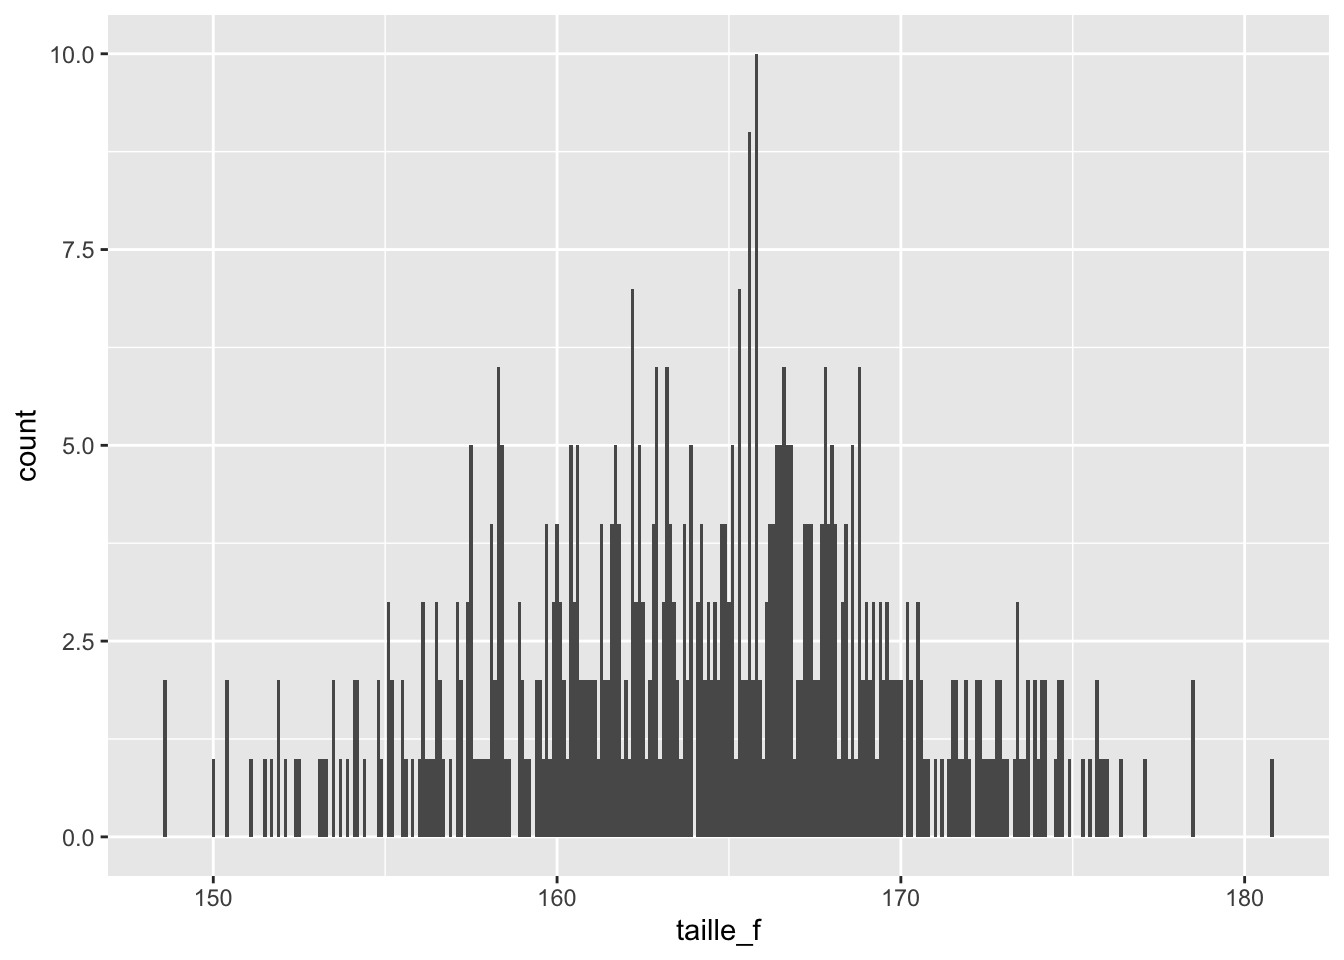
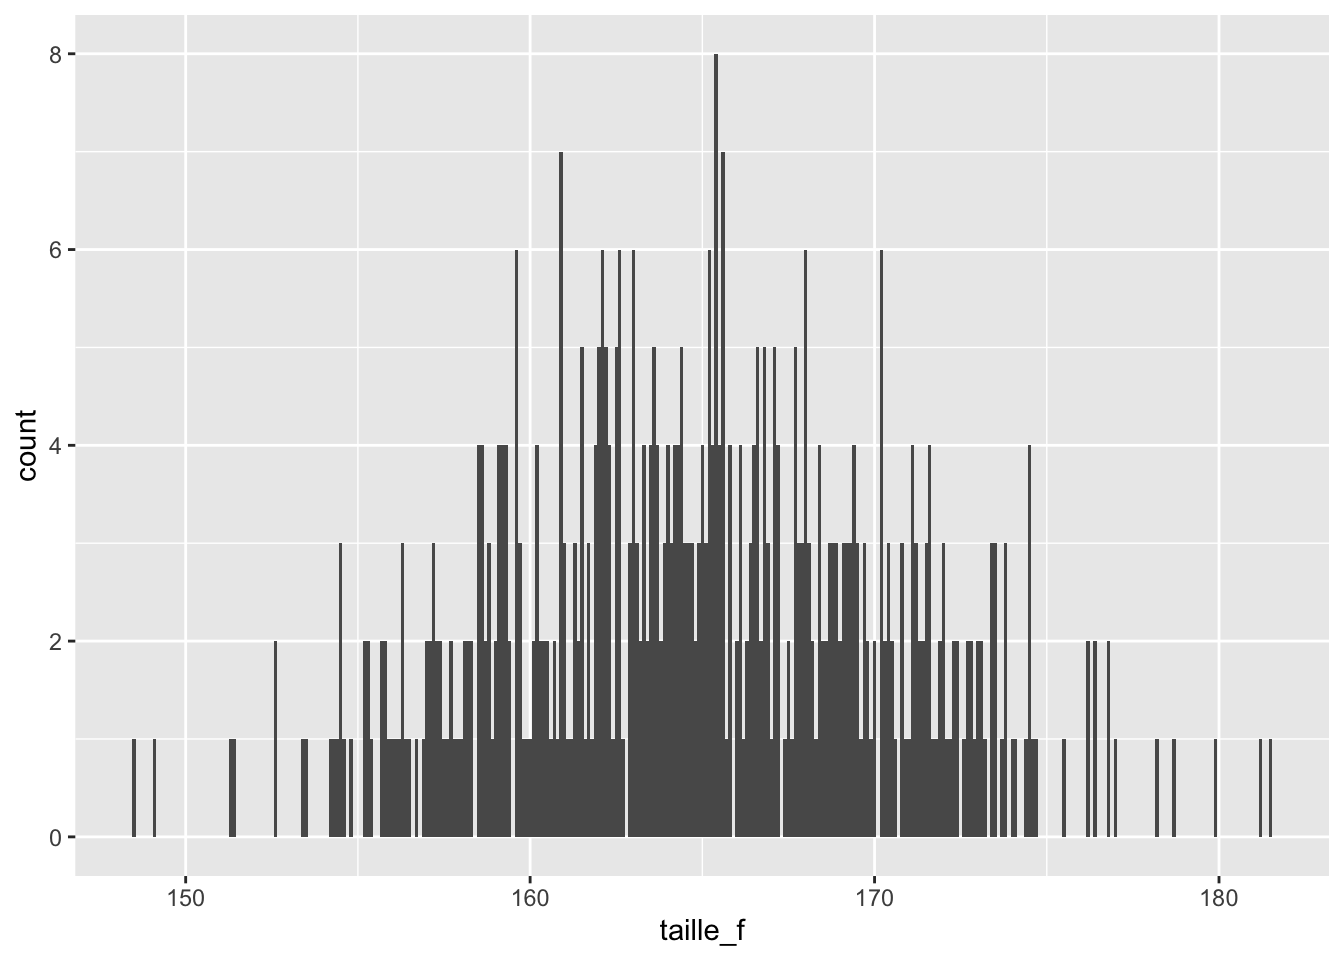
session 5 v2

diff --git a/index.html b/index.html
@@ -1529,7 +1529,7 @@ Astuce
 </div>
 </div>
 <div class="callout-body-container callout-body">
-<p>Un <strong>nuage de points</strong> (aussi appelé diagramme de dispersion) est utilisé dans <code>ggplot2</code> pour représenter les valeurs de <em>deux variables numériques différentes</em> par des points, avec une variable sur l’axe des X et l’autre sur l’axe des Y.</p>
+<p>Un <strong>nuage de points</strong> (aussi appelé diagramme de dispersion) est utilisé dans <code>ggplot2</code> pour représenter les valeurs de <strong>deux variables numériques différentes</strong> par des points, avec une variable sur l’axe des X et l’autre sur l’axe des Y.</p>
 <p>Ce type de graphique est idéal pour l’analyse exploratoire de données, permettant d’observer les relations entre les variables, de détecter des tendances, des regroupements, des valeurs êxtremes (angl. <em>outliers</em>) ou de vérifier des hypothèses de corrélation.</p>
 <p>Dans la fonction <code>ggplot()</code>, un scatter plot est créé avec la couche géométrique <code>geom_point()</code>.</p>
 </div>
@@ -1551,7 +1551,7 @@ Astuce
 </div>
 </div>
 </div>
-<p>Nous pouvons ajouter des couches à l’objet np1 sans l’écraser, p.&nbsp;ex. une ligne de régréssion linéaire avec <code>geom_smooth(method = lm)</code> :</p>
+<p>Nous pouvons ajouter des couches à l’objet <code>np1</code> sans l’écraser, p.&nbsp;ex. une ligne de régression linéaire avec <code>geom_smooth(method = lm)</code> :</p>
 <div class="cell">
 <div class="sourceCode cell-code" id="cb94"><pre class="sourceCode r code-with-copy"><code class="sourceCode r"><span id="cb94-1"><a href="#cb94-1" aria-hidden="true" tabindex="-1"></a>np1 <span class="sc">+</span> <span class="fu">geom_smooth</span>(<span class="at">method =</span> lm)</span></code><button title="Copy to Clipboard" class="code-copy-button"><i class="bi"></i></button></pre></div>
 <div class="cell-output-display">
@@ -1562,7 +1562,7 @@ Astuce
 </div>
 </div>
 </div>
-<p>Que nous indique la ligne de régréssion ? En principe, elle indique une correlation légèrement négative entre les variables <code>Sepal.Length</code>et <code>Sepal.Width</code>! (la zone grise autour de la ligne bleue indique une marge d’erreur).</p>
+<p>Que nous indique la ligne de régression ? En principe, elle indique une correlation légèrement négative entre les variables <code>Sepal.Length</code>et <code>Sepal.Width</code> ! (la zone grise autour de la ligne bleue indique une marge d’erreur).</p>
 <p>Cela signifie que les iris dont les sépales sont plus longs ont tendance à avoir des sépales un peu moins larges ! Gardez cette constatation à l’esprit pour les étapes de codage suivantes.</p>
 <div class="cell">
 <div class="sourceCode cell-code" id="cb95"><pre class="sourceCode r code-with-copy"><code class="sourceCode r"><span id="cb95-1"><a href="#cb95-1" aria-hidden="true" tabindex="-1"></a><span class="co"># Ecrasons np1 en changeant un peu le code. Découvrez</span></span>
@@ -1611,7 +1611,7 @@ Astuce
 <p>Dans la fonction <code>ggplot()</code>, un diagramme à barres est créé avec la couche géométrique <code>geom_bar()</code>.</p>
 </div>
 </div>
-<p>Par exemple, nous pouvons utiliser le code simple suivant pour comparer la fréquence des différentes tailles (angl. <code>cut</code>) dans le jeu de données <code>diamonds</code>. Cette-fois ci, ous sauvegardons et nommons le graphique <code>db1</code>.</p>
+<p>Par exemple, nous pouvons utiliser le code simple suivant pour comparer la fréquence des différentes tailles (angl. <code>cut</code>) dans le jeu de données <code>diamonds</code>. Cette-fois ci, nous sauvegardons et nommons le graphique <code>db1</code>.</p>
 <div class="cell">
 <div class="sourceCode cell-code" id="cb97"><pre class="sourceCode r code-with-copy"><code class="sourceCode r"><span id="cb97-1"><a href="#cb97-1" aria-hidden="true" tabindex="-1"></a>db1 <span class="ot">&lt;-</span> <span class="fu">ggplot</span>(<span class="at">data =</span> diamonds, <span class="at">mapping =</span> <span class="fu">aes</span>(<span class="at">x =</span> cut)) <span class="sc">+</span> <span class="fu">geom_bar</span>()</span>
 <span id="cb97-2"><a href="#cb97-2" aria-hidden="true" tabindex="-1"></a></span>
@@ -1642,7 +1642,7 @@ Astuce
 </div>
 </div>
 </div>
-<p>Que nous dit le graphique ? Il est intéressant de constater que dans le jeu de données <code>diamonds</code>, le niveau de qualité le plus élevé de la taille, à savoir <code>idéal</code>, est également le plus fréquent.</p>
+<p>Que nous dit le graphique ? Il est intéressant de constater que dans le jeu de données <code>diamonds</code>, le niveau de qualité le plus élevé de la taille, à savoir <code>ideal</code>, est également le plus fréquent.</p>
 <div class="callout callout-style-default callout-caution callout-titled">
 <div class="callout-header d-flex align-content-center" data-bs-toggle="collapse" data-bs-target=".callout-28-contents" aria-controls="callout-28" aria-expanded="true" aria-label="Toggle callout">
 <div class="callout-icon-container">
@@ -1655,7 +1655,7 @@ Attention
 </div>
 <div id="callout-28" class="callout-28-contents callout-collapse collapse show">
 <div class="callout-body-container callout-body">
-<p>Attention ! Dans la fonction <code>ggplot()</code>, il y a une différence si vous voulez ajouter de la couleur aux points (qui ont mathématiquement zéro dimension) ou aux surfaces (qui ont deux dimensions), comme dans les diagrammes à barres.</p>
+<p>Dans la fonction <code>ggplot()</code>, il y a une différence si vous voulez ajouter de la couleur aux points (qui ont mathématiquement zéro dimension) ou aux surfaces (qui ont deux dimensions), comme dans les diagrammes à barres.</p>
 <p>Si vous voulez ajouter de la couleur à une surface, vous devez utiliser l’argument <code>fill = "xyz"</code>. L’argument <code>color = "xyz"</code> que nous avons utilisé pour ajouter de la couleur aux nuages de points ne fera qu’ajouter de la couleur à la ligne autour de la surface !</p>
 </div>
 </div>
@@ -1680,7 +1680,7 @@ Attention
 <p>Un <strong>histogramme</strong> est un type de graphique utilisé pour représenter <strong>la distribution</strong> d’<strong>une variable numérique</strong> à travers des barres.</p>
 <p>Un “histogramme sépare les valeurs possibles des données en classes ou groupes. Pour chaque groupe, on construit un rectangle dont la base correspond aux valeurs de ce groupe et la hauteur correspond au nombre d’observations dans le groupe.</p>
 <p>L’histogramme a une apparence semblable au graphique à barres verticales, mais il n’y a pas d’écart entre les barres.</p>
-<p>En règle générale, l’histogramme possède des barres d’une largeur égale.” <a href="https://www150.statcan.gc.ca/n1/edu/power-pouvoir/ch9/histo/5214822-fra.htm">Statistique Canada</a></p>
+<p>En règle générale, l’histogramme possède des barres d’une largeur égale” (Source : <a href="https://www150.statcan.gc.ca/n1/edu/power-pouvoir/ch9/histo/5214822-fra.htm">Statistique Canada, 2021).</a></p>
 <p>L’histogramme est particulièrement utile pour :</p>
 <ul>
 <li><strong>Analyser la distribution</strong> : Comprendre si les données sont normalement distribuées, asymmétriques (angl. <em>skewness</em>), ou si elles présentent un plateau (kurtosis).</li>
@@ -1690,16 +1690,17 @@ Attention
 <p>Avec <code>ggplot2</code> en R, créer un histogramme se fait avec la couche géometrique <code>geom_histogram()</code>. <code>ggplot2</code> calcule automatiquement la taille des intervalles (angl. <em>bins</em>) par défaut, mais cela peut être ajusté manuellement en spécifiant l’argument <code>binwidth = xyz</code>dans la fonction <code>geom_histogram()</code>, p.&nbsp;ex. <code>geom_histogram(binwidth = 30)</code>.</p>
 </div>
 </div>
-<p>Avant de créer un histogramme avec le code R, introduisons d’abord une nouvelle fonction : <code>rnorm()</code>. Elle peut être utilisée pour créer des valeurs aléatoires qui suivent une <strong>loi normale</strong> (angl. <em>normal distribution</em>.</p>
+<p>Avant de créer un histogramme avec le code R, introduisons d’abord une nouvelle fonction : <code>rnorm()</code>. Elle peut être utilisée pour créer des valeurs aléatoires qui suivent une <strong>loi normale</strong> (angl. <em>normal distribution</em>).</p>
 <p>Les arguments que nous pouvons entrer dans la fonction sont :</p>
 <ul>
 <li><p>le nombre <code>n</code> de valeurs aléatoires que nous voulons créer</p></li>
 <li><p>la moyenne <code>mean</code> de la distribution des valeurs aléatoires</p></li>
 <li><p>l’écart-type <code>sd</code> de la distribution des valeurs aléatoires</p></li>
 </ul>
-<p>Notez que par défaut, la fonction utilise <code>mean = 0</code> et <code>sd = 1</code>, ce qui correspond à une <strong>loi normale centrée réduite</strong> (angl. <em>standard normal distribution</em>). Utilisez aussi <code>?rnorm()</code>pour accéder à plus d’infos.</p>
+<p>Notez que par défaut, la fonction utilise <code>mean = 0</code> et <code>sd = 1</code>, ce qui correspond à une <strong>loi normale centrée réduite</strong> (angl. <em>standard normal distribution</em>).</p>
+<p>Utilisez aussi <code>?rnorm()</code>pour accéder à plus d’infos.</p>
 <p>Dans le code R suivant, nous utilisons <code>rnorm()</code> pour simuler les distributions des tailles des hommes et des femmes en Suisse.</p>
-<p>Selon un article de <a href="https://www.24heures.ch/calculateur-en-ligne-quelle-taille-faites-vous-par-rapport-aux-autres-191558705635#"><em>24heures</em></a>, les femmes ont une taille moyenne de 164.7 cm tandis que les hommes mesurent 177.4 cm en moyenne. Dans la suite, nous supposons que les écarts-types sont de +- 5.6 cm pour les femmes et de +- 6.1 cm pour les hommes.</p>
+<p>Selon un article de <a href="https://www.24heures.ch/calculateur-en-ligne-quelle-taille-faites-vous-par-rapport-aux-autres-191558705635#"><em>24 heures</em></a>, en Suisse, les femmes ont une taille moyenne de 164.7 cm tandis que les hommes mesurent 177.4 cm en moyenne. Dans la suite, nous supposons que les écarts-types sont de +- 5.6 cm pour les femmes et de +- 6.1 cm pour les hommes.</p>
 <div class="cell">
 <div class="sourceCode cell-code" id="cb99"><pre class="sourceCode r code-with-copy"><code class="sourceCode r"><span id="cb99-1"><a href="#cb99-1" aria-hidden="true" tabindex="-1"></a><span class="co"># Simulation de tailles de femmes en Suisse Créer 500</span></span>
 <span id="cb99-2"><a href="#cb99-2" aria-hidden="true" tabindex="-1"></a><span class="co"># valeurs aléatoires de taille (moyenne = 164.7 et</span></span>
@@ -1708,7 +1709,7 @@ Attention
 <span id="cb99-5"><a href="#cb99-5" aria-hidden="true" tabindex="-1"></a></span>
 <span id="cb99-6"><a href="#cb99-6" aria-hidden="true" tabindex="-1"></a><span class="fu">head</span>(taille_f)</span></code><button title="Copy to Clipboard" class="code-copy-button"><i class="bi"></i></button></pre></div>
 <div class="cell-output cell-output-stdout">
-<pre><code>[1] 161.3119 153.4556 175.2535 165.8702 170.2111 167.3084</code></pre>
+<pre><code>[1] 164.0153 173.1738 163.4386 162.0325 164.8642 169.1685</code></pre>
 </div>
 <div class="sourceCode cell-code" id="cb101"><pre class="sourceCode r code-with-copy"><code class="sourceCode r"><span id="cb101-1"><a href="#cb101-1" aria-hidden="true" tabindex="-1"></a><span class="co"># stocker taille_f comme objet de type 'data.frame'</span></span>
 <span id="cb101-2"><a href="#cb101-2" aria-hidden="true" tabindex="-1"></a>taille_f <span class="ot">&lt;-</span> <span class="fu">as.data.frame</span>(taille_f)</span>
